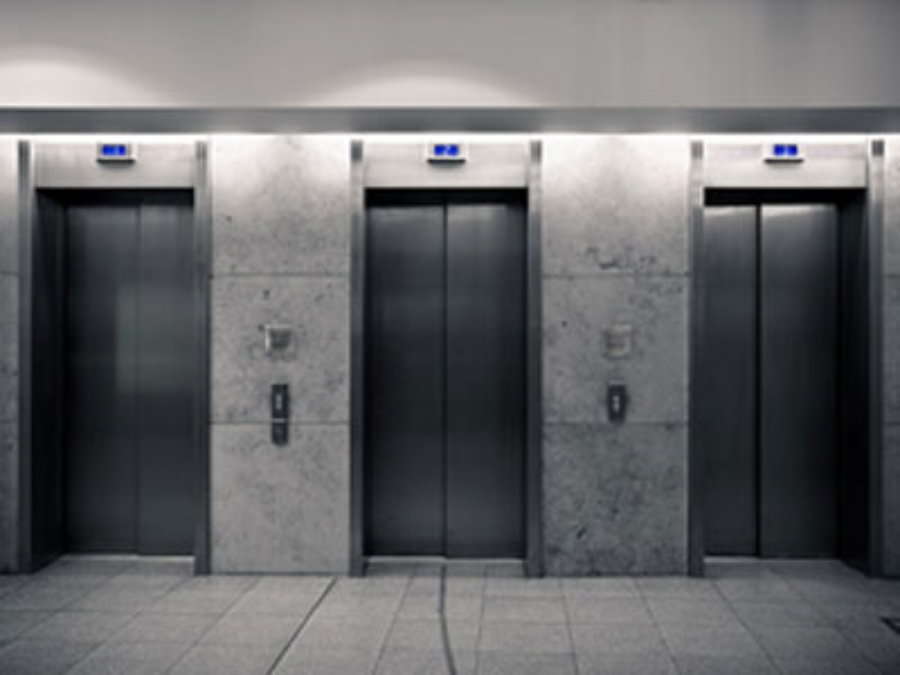
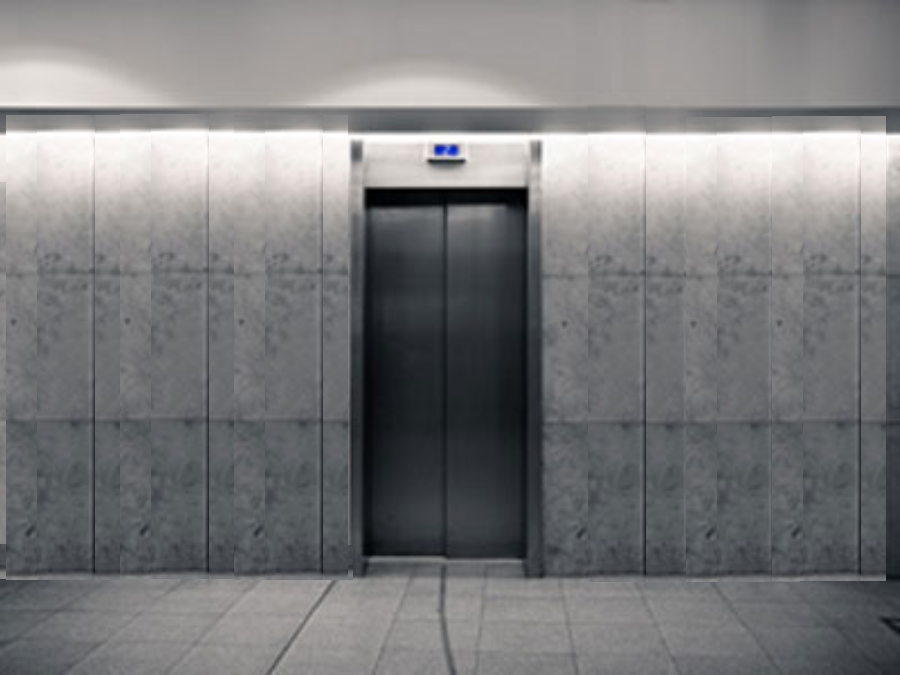
added elevator interior...and a few new transition conditions

diff --git a/scripts/game_base.js b/scripts/game_base.js
@@ -32,13 +32,14 @@ this.right_transition = right_transition;
 //}
 
 //instantiate character
-var jim = new character (true,5,50,500,"./content/images/jim.png",48);
+var jim = new character (true,10,50,500,"./content/images/jim.png",48);
 
 //instantiate scenes (formerly background)
-//var back = new background('lobby',"./content/images/lobby.png");
 var box = new walkbox(800,100,0,450);
 var lobby = new scene(true,'lobby',"./content/images/lobby.png",'lobby','elevator');
 var elevator = new scene(false,'elevator',"./content/images/elevator.png",'lobby','elevator');
+var elevator_interior = new scene(false,'elevator_interior',"./content/images/elevator_interior.png",'elevator','lab');
+
 
 //init filthy global variables
 game_base.fps = 50;
@@ -76,13 +77,22 @@ game_base.update = function(event) {
         //scene transition
 	elevator.draw = true;
 	lobby.draw = false;
-        //back.img.src = "./content/images/elevator.png";
-        //back.screen_name = 'elevator';
         jim.x = 1;
     }else if (jim.x < 1 && elevator.draw){
         elevator.draw = false;
 	lobby.draw = true;
 	jim.x = _canvas.width -2;
+    }else if (jim.y < box.yorigin + 1 && jim.x > 325 && elevator.draw){
+        elevator.draw = false;
+        elevator_interior.draw = true;
+        jim.x = 450;
+    }
+    else if (jim.y > 499 && elevator_interior.draw){
+        elevator_interior.draw = false;
+        elevator.draw = true;
+        jim.x = 425;
+        //jim.y = box.yorigin + 2;
+        jim.y = 500;
     }
 }
 
@@ -90,18 +100,23 @@ game_base.draw = function() {
 
 	_canvasContext.clearRect(0,0,_canvas.width,_canvas.height);
         _canvasBufferContext.clearRect(0,0,_canvas.width,_canvas.height);
+
+        //draw active scene        
         if (lobby.draw){
             _canvasBufferContext.drawImage(lobby.img, 0, 0);
         } else if (elevator.draw){
             _canvasBufferContext.drawImage(elevator.img, 0, 0);
+        } else if (elevator_interior.draw){
+            _canvasBufferContext.drawImage(elevator_interior.img, 0, 0);
         }
+        
+        //draw active character
         if (jim.draw == true) {
             _canvasBufferContext.drawImage(jim.img, jim.x, jim.y);	
 	}
         _canvasContext.drawImage(_canvasBuffer, 0 , 0);	
 }
 
-//game_base._intervalID = setInterval(game_base.run, 1000 / game_base.fps);
 
 
 function move (event) {
